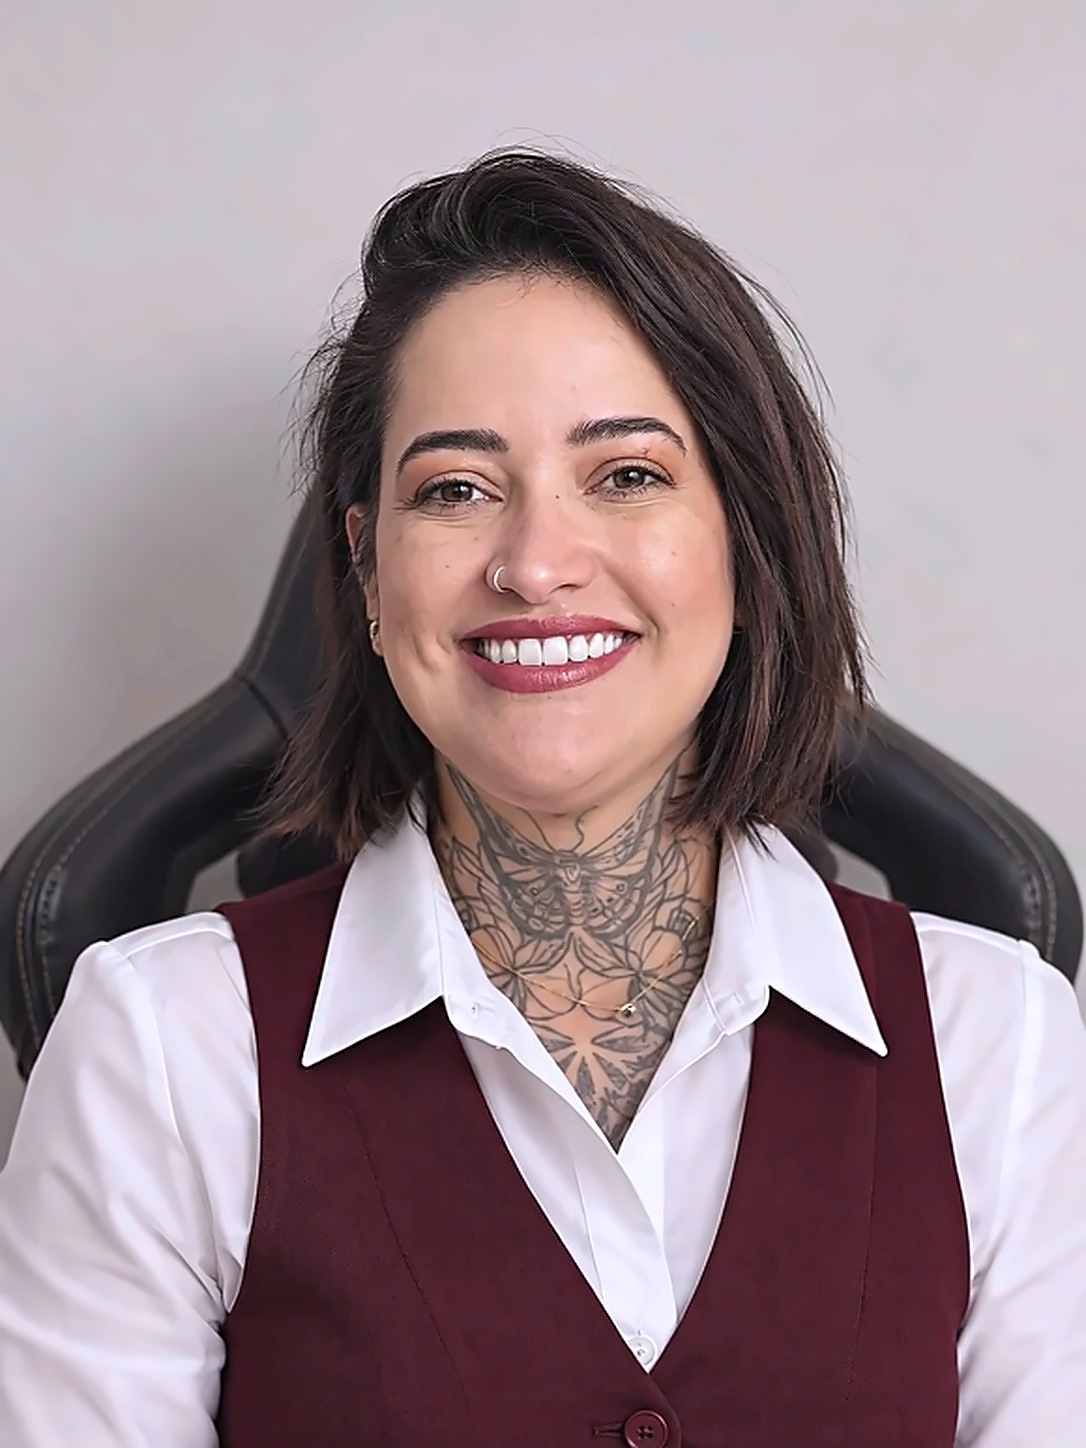
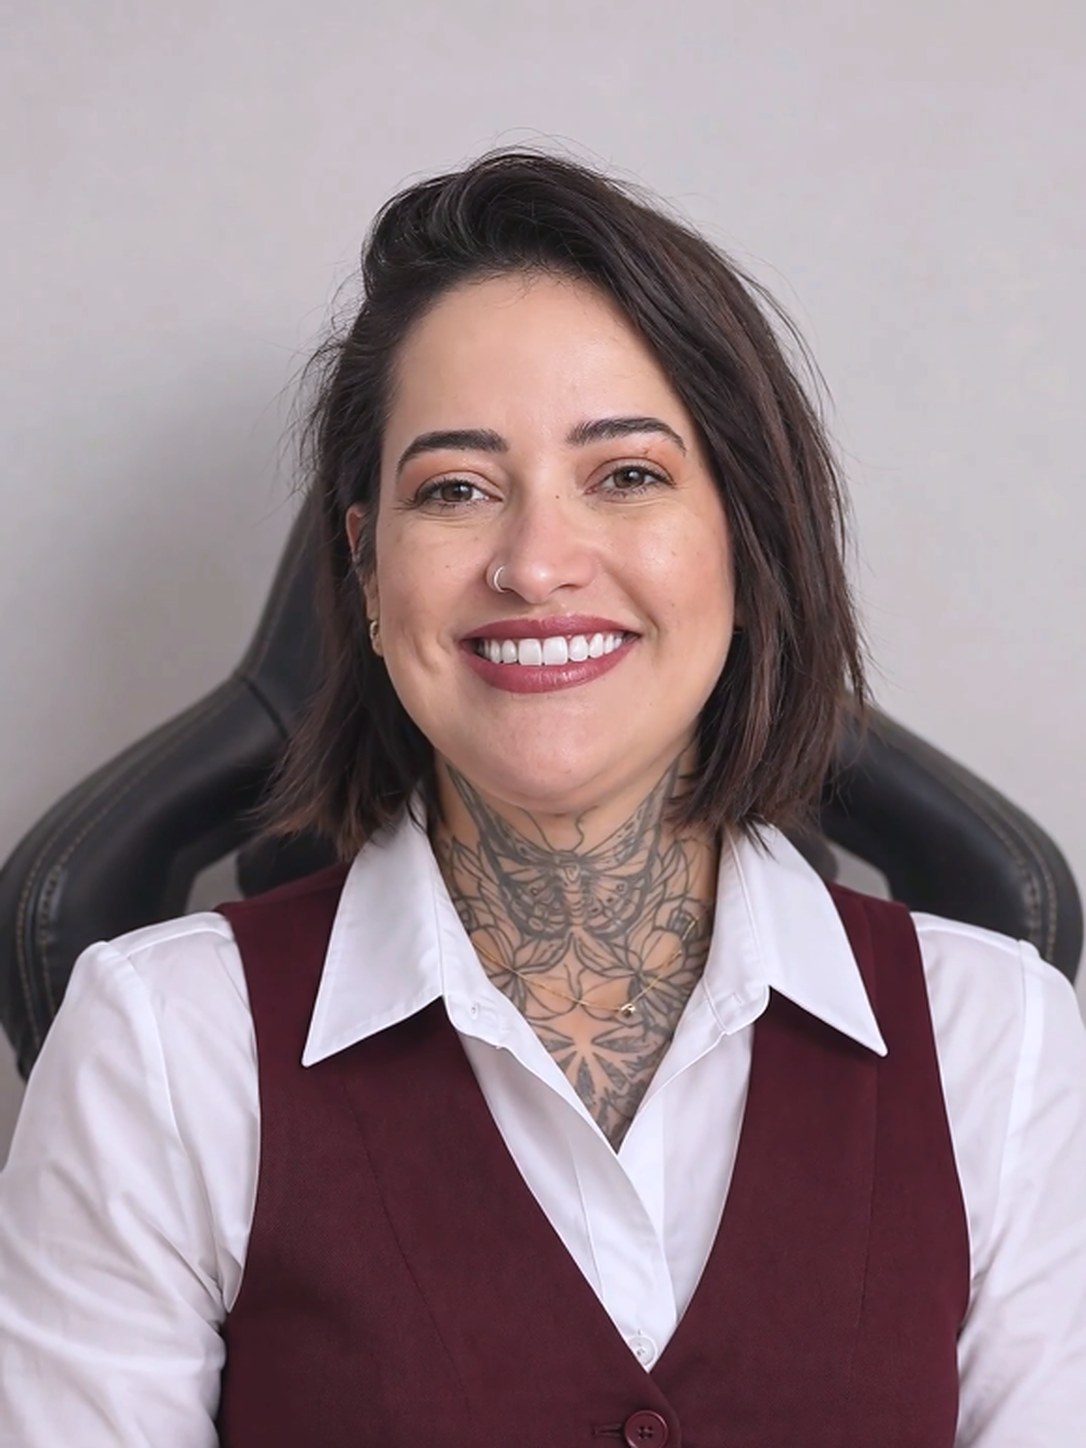
atua

diff --git a/index.html b/index.html
@@ -20,14 +20,14 @@
   <meta property="og:image:width" content="1600" />
   <meta property="og:image:height" content="2133" />
   <meta property="og:description" content="Plano alimentar na sua rotina — emagrecimento e nutrição clínica em Campinas ou online, com acompanhamento personalizado." />
-  <meta property="og:image" content="https://www.anafedel.com/img/hero-ana-fedel-1600.jpg?v=20261112" />
+  <meta property="og:image" content="https://www.anafedel.com/img/hero-ana-fedel-1600.jpg?v=2026111202" />
   <meta property="og:image:alt" content="Ana Fedel, nutricionista em Campinas" />
 
   <!-- Twitter -->
   <meta name="twitter:card" content="summary_large_image" />
   <meta name="twitter:title" content="Ana Fedel | Nutricionista em Campinas" />
   <meta name="twitter:description" content="Emagrecimento, nutrição clínica e acompanhamento personalizado em Campinas e online." />
-  <meta name="twitter:image" content="https://www.anafedel.com/img/hero-ana-fedel-1600.jpg?v=20261112" />
+  <meta name="twitter:image" content="https://www.anafedel.com/img/hero-ana-fedel-1600.jpg?v=2026111202" />
   <link rel="icon" href="./img/logo-s.svg" type="image/svg+xml" />
 
   <link rel="preconnect" href="https://fonts.googleapis.com" />
@@ -105,8 +105,8 @@
       border-color: #2A0D10 !important;
     }
   </style>
-  <link rel="preload" as="image" href="./img/hero-ana-fedel-1600.jpg?v=20261112" media="(min-width: 768px)" fetchpriority="high" />
-  <link rel="preload" as="image" href="./img/hero-ana-fedel-mobile.jpg?v=20261112" media="(max-width: 767px)" fetchpriority="high" />
+  <link rel="preload" as="image" href="./img/hero-ana-fedel-1600.jpg?v=2026111202" media="(min-width: 768px)" fetchpriority="high" />
+  <link rel="preload" as="image" href="./img/hero-ana-fedel-mobile.jpg?v=2026111202" media="(max-width: 767px)" fetchpriority="high" />
 
   <script type="application/ld+json">
   {
@@ -117,7 +117,7 @@
         "@id": "https://www.anafedel.com/#profissional",
         "name": "Ana Fedel",
         "url": "https://www.anafedel.com/",
-        "image": "https://www.anafedel.com/img/hero-ana-fedel-1600.jpg?v=20261112",
+        "image": "https://www.anafedel.com/img/hero-ana-fedel-1600.jpg?v=2026111202",
         "description": "Nutricionista em Campinas e online. Emagrecimento, nutrição clínica e plano alimentar na rotina do paciente.",
         "identifier": {
           "@type": "PropertyValue",
@@ -145,7 +145,7 @@
         "@id": "https://www.anafedel.com/#local",
         "name": "Ana Fedel Nutricionista",
         "url": "https://www.anafedel.com/",
-        "image": "https://www.anafedel.com/img/hero-ana-fedel-1600.jpg?v=20261112",
+        "image": "https://www.anafedel.com/img/hero-ana-fedel-1600.jpg?v=2026111202",
         "telephone": "+5519992591776",
         "address": {
           "@type": "PostalAddress",
@@ -279,8 +279,8 @@
     <!-- HERO -->
     <section id="inicio" class="hero" aria-labelledby="hero-titulo">
       <picture class="hero-bg">
-        <source media="(max-width: 767px)" srcset="./img/hero-ana-fedel-mobile.jpg?v=20261112" />
-        <img src="./img/hero-ana-fedel-1600.jpg?v=20261112" width="1640" height="1448" alt="Retrato da nutricionista Ana Fedel" fetchpriority="high" decoding="async" />
+        <source media="(max-width: 767px)" srcset="./img/hero-ana-fedel-mobile.jpg?v=2026111202" />
+        <img src="./img/hero-ana-fedel-1600.jpg?v=2026111202" width="1640" height="1448" alt="Retrato da nutricionista Ana Fedel" fetchpriority="high" decoding="async" />
       </picture>
       <div class="hero-overlay" aria-hidden="true"></div>
       <div class="hero-left reveal">
@@ -587,7 +587,7 @@
     <section id="sobre" class="section" aria-labelledby="titulo-sobre">
       <div class="about-grid">
         <div class="about-img reveal">
-          <img src="./img/ana-fedel-sobre.jpg?v=20261112" alt="Ana Fedel, nutricionista" loading="lazy" decoding="async" />
+          <img src="./img/ana-fedel-sobre.jpg?v=2026111202" alt="Ana Fedel, nutricionista" loading="lazy" decoding="async" />
           <div class="about-img-accent" aria-hidden="true"></div>
         </div>
         <div class="about-text reveal">

diff --git a/canetas-emagrecedoras-campinas.html b/canetas-emagrecedoras-campinas.html
@@ -15,14 +15,14 @@
   <meta property="og:url" content="https://www.anafedel.com/canetas-emagrecedoras-campinas.html" />
   <meta property="og:title" content="Canetas emagrecedoras e nutrição | Ana Fedel Nutricionista" />
   <meta property="og:description" content="A caneta ajuda. A alimentação é o que sustenta. Acompanhamento nutricional em Campinas e online." />
-  <meta property="og:image" content="https://www.anafedel.com/img/hero-ana-fedel-1600.jpg?v=20261112" />
+  <meta property="og:image" content="https://www.anafedel.com/img/hero-ana-fedel-1600.jpg?v=2026111202" />
   <meta property="og:image:width" content="1600" />
   <meta property="og:image:height" content="2133" />
   <meta property="og:image:alt" content="Ana Fedel, nutricionista em Campinas" />
   <meta name="twitter:card" content="summary_large_image" />
   <meta name="twitter:title" content="Canetas emagrecedoras e nutrição | Ana Fedel" />
   <meta name="twitter:description" content="Acompanhamento nutricional para quem usa canetas emagrecedoras, em Campinas e online." />
-  <meta name="twitter:image" content="https://www.anafedel.com/img/hero-ana-fedel-1600.jpg?v=20261112" />
+  <meta name="twitter:image" content="https://www.anafedel.com/img/hero-ana-fedel-1600.jpg?v=2026111202" />
   <link rel="preconnect" href="https://fonts.googleapis.com" />
   <link rel="preconnect" href="https://fonts.gstatic.com" crossorigin />
   <link href="https://fonts.googleapis.com/css2?family=Bricolage+Grotesque:opsz,wght@12..96,500;12..96,700;12..96,800&family=Playfair+Display:ital,wght@0,400;0,500;0,600;1,400;1,500;1,600&family=Jost:wght@300;400;500;600&display=swap" rel="stylesheet" />

diff --git a/saude-hormonal-feminina.html b/saude-hormonal-feminina.html
@@ -15,14 +15,14 @@
   <meta property="og:url" content="https://www.anafedel.com/saude-hormonal-feminina.html" />
   <meta property="og:title" content="Nutrição Clínica Feminina | Ana Fedel Nutricionista" />
   <meta property="og:description" content="Acompanhamento nutricional para TPM, SOP, menopausa e bem-estar no dia a dia em Campinas e online." />
-  <meta property="og:image" content="https://www.anafedel.com/img/hero-ana-fedel-1600.jpg?v=20261112" />
+  <meta property="og:image" content="https://www.anafedel.com/img/hero-ana-fedel-1600.jpg?v=2026111202" />
   <meta property="og:image:width" content="1600" />
   <meta property="og:image:height" content="2133" />
   <meta property="og:image:alt" content="Ana Fedel, nutricionista em Campinas" />
   <meta name="twitter:card" content="summary_large_image" />
   <meta name="twitter:title" content="Nutrição Clínica Feminina | Ana Fedel" />
   <meta name="twitter:description" content="Nutrição para TPM, SOP, menopausa e acompanhamento personalizado." />
-  <meta name="twitter:image" content="https://www.anafedel.com/img/hero-ana-fedel-1600.jpg?v=20261112" />
+  <meta name="twitter:image" content="https://www.anafedel.com/img/hero-ana-fedel-1600.jpg?v=2026111202" />
   <link rel="preconnect" href="https://fonts.googleapis.com" />
   <link rel="preconnect" href="https://fonts.gstatic.com" crossorigin />
   <link href="https://fonts.googleapis.com/css2?family=Bricolage+Grotesque:opsz,wght@12..96,500;12..96,700;12..96,800&family=Playfair+Display:ital,wght@0,400;0,500;0,600;1,400;1,500;1,600&family=Jost:wght@300;400;500;600&display=swap" rel="stylesheet" />

diff --git a/nutricionista-em-campinas.html b/nutricionista-em-campinas.html
@@ -15,14 +15,14 @@
   <meta property="og:url" content="https://www.anafedel.com/nutricionista-em-campinas.html" />
   <meta property="og:title" content="Nutricionista em Campinas | Ana Fedel" />
   <meta property="og:description" content="Nutricionista em Campinas — atendimento presencial e online para emagrecimento com saúde e rotina alimentar sustentável." />
-  <meta property="og:image" content="https://www.anafedel.com/img/hero-ana-fedel-1600.jpg?v=20261112" />
+  <meta property="og:image" content="https://www.anafedel.com/img/hero-ana-fedel-1600.jpg?v=2026111202" />
   <meta property="og:image:width" content="1600" />
   <meta property="og:image:height" content="2133" />
   <meta property="og:image:alt" content="Ana Fedel, nutricionista em Campinas" />
   <meta name="twitter:card" content="summary_large_image" />
   <meta name="twitter:title" content="Nutricionista em Campinas | Ana Fedel" />
   <meta name="twitter:description" content="Consultório em Campinas e consultas online. CRN-3 91723." />
-  <meta name="twitter:image" content="https://www.anafedel.com/img/hero-ana-fedel-1600.jpg?v=20261112" />
+  <meta name="twitter:image" content="https://www.anafedel.com/img/hero-ana-fedel-1600.jpg?v=2026111202" />
   <link rel="preconnect" href="https://fonts.googleapis.com" />
   <link rel="preconnect" href="https://fonts.gstatic.com" crossorigin />
   <link href="https://fonts.googleapis.com/css2?family=Bricolage+Grotesque:opsz,wght@12..96,500;12..96,700;12..96,800&family=Playfair+Display:ital,wght@0,400;0,500;0,600;1,400;1,500;1,600&family=Jost:wght@300;400;500;600&display=swap" rel="stylesheet" />

diff --git a/emagrecimento-feminino.html b/emagrecimento-feminino.html
@@ -15,14 +15,14 @@
   <meta property="og:url" content="https://www.anafedel.com/emagrecimento-feminino.html" />
   <meta property="og:title" content="Emagrecimento Feminino | Ana Fedel Nutricionista" />
   <meta property="og:description" content="Emagrecimento feminino com estratégia clínica em Campinas e online, sem dietas radicais." />
-  <meta property="og:image" content="https://www.anafedel.com/img/hero-ana-fedel-1600.jpg?v=20261112" />
+  <meta property="og:image" content="https://www.anafedel.com/img/hero-ana-fedel-1600.jpg?v=2026111202" />
   <meta property="og:image:width" content="1600" />
   <meta property="og:image:height" content="2133" />
   <meta property="og:image:alt" content="Ana Fedel, nutricionista em Campinas" />
   <meta name="twitter:card" content="summary_large_image" />
   <meta name="twitter:title" content="Emagrecimento Feminino | Ana Fedel" />
   <meta name="twitter:description" content="Acompanhamento nutricional para emagrecimento feminino em Campinas e online." />
-  <meta name="twitter:image" content="https://www.anafedel.com/img/hero-ana-fedel-1600.jpg?v=20261112" />
+  <meta name="twitter:image" content="https://www.anafedel.com/img/hero-ana-fedel-1600.jpg?v=2026111202" />
   <link rel="preconnect" href="https://fonts.googleapis.com" />
   <link rel="preconnect" href="https://fonts.gstatic.com" crossorigin />
   <link href="https://fonts.googleapis.com/css2?family=Bricolage+Grotesque:opsz,wght@12..96,500;12..96,700;12..96,800&family=Playfair+Display:ital,wght@0,400;0,500;0,600;1,400;1,500;1,600&family=Jost:wght@300;400;500;600&display=swap" rel="stylesheet" />

diff --git a/bioimpedancia-campinas.html b/bioimpedancia-campinas.html
@@ -15,14 +15,14 @@
   <meta property="og:url" content="https://www.anafedel.com/bioimpedancia-campinas.html" />
   <meta property="og:title" content="Bioimpedância em Campinas | Ana Fedel Nutricionista" />
   <meta property="og:description" content="Avaliação da composição corporal em Campinas, integrada ao acompanhamento nutricional presencial." />
-  <meta property="og:image" content="https://www.anafedel.com/img/hero-ana-fedel-1600.jpg?v=20261112" />
+  <meta property="og:image" content="https://www.anafedel.com/img/hero-ana-fedel-1600.jpg?v=2026111202" />
   <meta property="og:image:width" content="1600" />
   <meta property="og:image:height" content="2133" />
   <meta property="og:image:alt" content="Ana Fedel, nutricionista em Campinas" />
   <meta name="twitter:card" content="summary_large_image" />
   <meta name="twitter:title" content="Bioimpedância em Campinas | Ana Fedel" />
   <meta name="twitter:description" content="Avaliação corporal no consultório em Campinas." />
-  <meta name="twitter:image" content="https://www.anafedel.com/img/hero-ana-fedel-1600.jpg?v=20261112" />
+  <meta name="twitter:image" content="https://www.anafedel.com/img/hero-ana-fedel-1600.jpg?v=2026111202" />
   <link rel="preconnect" href="https://fonts.googleapis.com" />
   <link rel="preconnect" href="https://fonts.gstatic.com" crossorigin />
   <link href="https://fonts.googleapis.com/css2?family=Bricolage+Grotesque:opsz,wght@12..96,500;12..96,700;12..96,800&family=Playfair+Display:ital,wght@0,400;0,500;0,600;1,400;1,500;1,600&family=Jost:wght@300;400;500;600&display=swap" rel="stylesheet" />

diff --git a/reeducacao-alimentar.html b/reeducacao-alimentar.html
@@ -15,14 +15,14 @@
   <meta property="og:url" content="https://www.anafedel.com/reeducacao-alimentar.html" />
   <meta property="og:title" content="Reeducação Alimentar | Ana Fedel Nutricionista" />
   <meta property="og:description" content="Reeducação alimentar com hábitos que você mantém — Campinas ou online." />
-  <meta property="og:image" content="https://www.anafedel.com/img/hero-ana-fedel-1600.jpg?v=20261112" />
+  <meta property="og:image" content="https://www.anafedel.com/img/hero-ana-fedel-1600.jpg?v=2026111202" />
   <meta property="og:image:width" content="1600" />
   <meta property="og:image:height" content="2133" />
   <meta property="og:image:alt" content="Ana Fedel, nutricionista em Campinas" />
   <meta name="twitter:card" content="summary_large_image" />
   <meta name="twitter:title" content="Reeducação Alimentar | Ana Fedel" />
   <meta name="twitter:description" content="Hábitos sustentáveis e plano personalizado em Campinas e online." />
-  <meta name="twitter:image" content="https://www.anafedel.com/img/hero-ana-fedel-1600.jpg?v=20261112" />
+  <meta name="twitter:image" content="https://www.anafedel.com/img/hero-ana-fedel-1600.jpg?v=2026111202" />
   <link rel="preconnect" href="https://fonts.googleapis.com" />
   <link rel="preconnect" href="https://fonts.gstatic.com" crossorigin />
   <link href="https://fonts.googleapis.com/css2?family=Bricolage+Grotesque:opsz,wght@12..96,500;12..96,700;12..96,800&family=Playfair+Display:ital,wght@0,400;0,500;0,600;1,400;1,500;1,600&family=Jost:wght@300;400;500;600&display=swap" rel="stylesheet" />

diff --git a/consulta-online.html b/consulta-online.html
@@ -15,14 +15,14 @@
   <meta property="og:url" content="https://www.anafedel.com/consulta-online.html" />
   <meta property="og:title" content="Consulta Nutricional Online | Ana Fedel" />
   <meta property="og:description" content="Consulta online com o mesmo cuidado do presencial — plano personalizado em todo o Brasil." />
-  <meta property="og:image" content="https://www.anafedel.com/img/hero-ana-fedel-1600.jpg?v=20261112" />
+  <meta property="og:image" content="https://www.anafedel.com/img/hero-ana-fedel-1600.jpg?v=2026111202" />
   <meta property="og:image:width" content="1600" />
   <meta property="og:image:height" content="2133" />
   <meta property="og:image:alt" content="Ana Fedel, nutricionista" />
   <meta name="twitter:card" content="summary_large_image" />
   <meta name="twitter:title" content="Consulta Nutricional Online | Ana Fedel" />
   <meta name="twitter:description" content="Atendimento por vídeo com a mesma profundidade da consulta presencial." />
-  <meta name="twitter:image" content="https://www.anafedel.com/img/hero-ana-fedel-1600.jpg?v=20261112" />
+  <meta name="twitter:image" content="https://www.anafedel.com/img/hero-ana-fedel-1600.jpg?v=2026111202" />
   <link rel="preconnect" href="https://fonts.googleapis.com" />
   <link rel="preconnect" href="https://fonts.gstatic.com" crossorigin />
   <link href="https://fonts.googleapis.com/css2?family=Bricolage+Grotesque:opsz,wght@12..96,500;12..96,700;12..96,800&family=Playfair+Display:ital,wght@0,400;0,500;0,600;1,400;1,500;1,600&family=Jost:wght@300;400;500;600&display=swap" rel="stylesheet" />

diff --git a/links.html b/links.html
@@ -15,14 +15,14 @@
   <meta property="og:url" content="https://www.anafedel.com/links.html" />
   <meta property="og:title" content="Links | Ana Fedel Nutricionista" />
   <meta property="og:description" content="Agende consulta, veja planos e valores e tire dúvidas no WhatsApp com Ana Fedel." />
-  <meta property="og:image" content="https://www.anafedel.com/img/hero-ana-fedel-1600.jpg?v=20261112" />
+  <meta property="og:image" content="https://www.anafedel.com/img/hero-ana-fedel-1600.jpg?v=2026111202" />
   <meta property="og:image:width" content="1600" />
   <meta property="og:image:height" content="2133" />
   <meta property="og:image:alt" content="Ana Fedel, nutricionista" />
   <meta name="twitter:card" content="summary_large_image" />
   <meta name="twitter:title" content="Links | Ana Fedel Nutricionista" />
   <meta name="twitter:description" content="Agende, veja planos e valores e tire dúvidas no WhatsApp." />
-  <meta name="twitter:image" content="https://www.anafedel.com/img/hero-ana-fedel-1600.jpg?v=20261112" />
+  <meta name="twitter:image" content="https://www.anafedel.com/img/hero-ana-fedel-1600.jpg?v=2026111202" />
   <link rel="preconnect" href="https://fonts.googleapis.com" />
   <link rel="preconnect" href="https://fonts.gstatic.com" crossorigin />
   <link href="https://fonts.googleapis.com/css2?family=Bricolage+Grotesque:opsz,wght@12..96,500;12..96,700;12..96,800&family=Playfair+Display:ital,wght@0,400;0,500;0,600;1,400;1,500;1,600&family=Jost:wght@300;400;500;600&display=swap" rel="stylesheet" />
